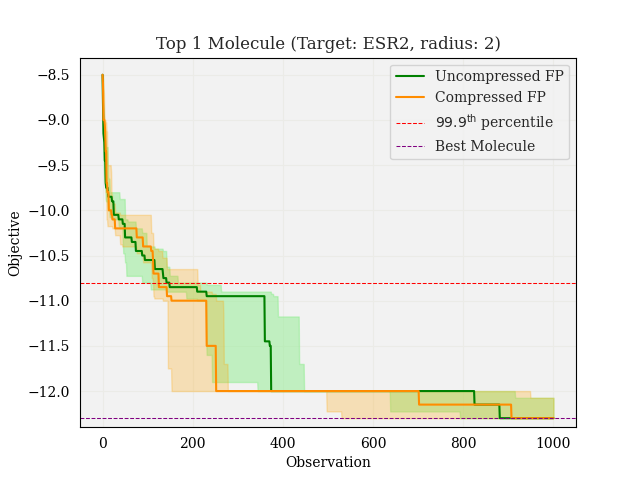
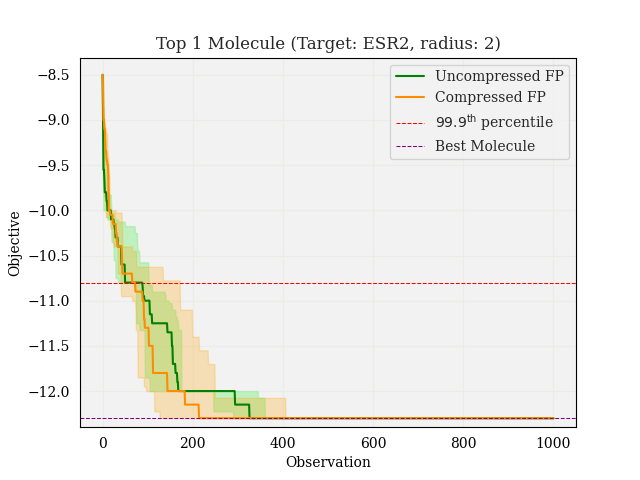
Update progress.md

Changed region(s): [[0.1562, 0.25, 0.875, 0.875]]

diff --git a/code/utils/misc.py b/code/utils/misc.py
@@ -86,16 +86,17 @@ def init_gp(smiles_train, y_train, amp=1.0, noise=1e-2, sparse=True, radius=2, c
 
     fp_func = config_fp_func(sparse=sparse, radius=radius, count=count, fpSize=fpSize)
 
-    gp = tanimoto_gp.ZeroMeanTanimotoGP(fp_func, smiles_train, y_train)
+    gp = tanimoto_gp.ConstantMeanTanimotoGP(fp_func, smiles_train, y_train)
 
-    gp_params = tanimoto_gp.TanimotoGP_Params(raw_amplitude=jnp.asarray(amp), raw_noise=jnp.asarray(noise))
+    train_mean = jnp.mean(y_train)
+    gp_params = tanimoto_gp.TanimotoGP_Params(raw_amplitude=jnp.asarray(amp), raw_noise=jnp.asarray(noise), mean=train_mean)
     gp_params = optimize_params(gp, gp_params, tol=1e-3, max_iters=10000)
 
     return gp, gp_params
 
 
 
-def config_fp_func(fp_type='ecfp', sparse=True, radius=2, count=True, fpSize=1024):
+def config_fp_func(fp_type='ecfp', sparse=True, radius=2, count=True, fpSize=2048):
 
     fp_func = partial(smiles_to_fp, fp_type=fp_type, sparse=sparse, radius=radius, count=count, fpSize=fpSize)
 

diff --git a/code/plot-bo-results.py b/code/plot-bo-results.py
@@ -37,7 +37,7 @@ def plot_hist(y, p99, p999, target):
 
 
 
-def main(target, n_init, budget, sparse, radius, make_hist):
+def main(target, n_init, budget, radius, make_hist):
 
     # Load dataset
     smiles_train, smiles_test, y_train, y_test = get_data.get_dockstring_dataset(target=target)
@@ -168,7 +168,6 @@ if __name__ == "__main__":
     parser.add_argument("--target", type=str, default='PARP1')
     parser.add_argument("--n_init", type=int, default=1000)
     parser.add_argument("--budget", type=int, default=1000)
-    parser.add_argument("--sparse", action="store_true")
     parser.add_argument("--radius", type=int, default=2)
     parser.add_argument("--make_hist", action="store_true")
  
@@ -177,6 +176,5 @@ if __name__ == "__main__":
     main(n_init=args.n_init,
          budget=args.budget,
          target=args.target,
-         sparse=args.sparse,
          radius=args.radius,
          make_hist=args.make_hist)

diff --git a/code/dockstring-bo.py b/code/dockstring-bo.py
@@ -96,7 +96,7 @@ def main(n_init, budget, target, sparse, radius):
     with open(results_path, 'wb') as f:
         pickle.dump(data, f)
 
-    print(f"Save results to {results_path}")
+    print(f"Saved results to {results_path}")
 
 
 if __name__ == "__main__":

diff --git a/progress.md b/progress.md
@@ -1,14 +1,4 @@
-Meeting notes (3/13):
-
-* in `predict_f()` are the parameters used for prediction the same that are used to compute the Cholesky factor?
-  --> Same for `predict_y()`
-* predictive GP class with fixed parameters
-* Subtract off dataset means for `ZeroMeanTanimotoGP`
-* Constant mean
-* Refactor for BO project, caching
-* Re-run BO experiments with subtracted mean
-
-* **Q:** Do we want to continuously update the mean function for `ConstantMeanTanimotoGP` as we observe new data in BO?
+* Do we want to continuously update the mean function for `ConstantMeanTanimotoGP` as we observe new data in BO?
 
 # March
 
@@ -31,11 +21,11 @@ Meeting notes (3/13):
 #### BO experiments
 - [x] Run all BO experiments for 1000 initial molecules and budget w/ GP regression params on bottom 80%
   - [x] `PARP1`
-  - [ ] `F2`
+  - [x] `F2`
   - [x] `ESR2`
 - [x] After making code faster and fixing SLURM resource usage, run more trials w/ larger initalizations / budgets
 
-- [ ] Re-run BO experiments with `ConstantMeanTanimotoGP` class
+- [ ] Re-run BO experiments with `FixedTanimotoGP` class
 
 # Feb
 

diff --git a/experiments.md b/experiments.md
@@ -42,8 +42,18 @@ Dataset is training dataset from Dockstring (10k molecules). Initial observation
 </p>
 
 <p align="center">
+<img src="figures/dockstring-bo/F2/1000-1000/r2-best.png" alt="" width="40%"/>
+<img src="figures/dockstring-bo/F2/1000-1000/r2-top10.png" alt="" width="40%"/>
+</p>
+
+<p align="center">
 <img src="figures/dockstring-bo/ESR2/1000-1000/r2-best.png" alt="" width="40%"/>
 <img src="figures/dockstring-bo/ESR2/1000-1000/r2-top10.png" alt="" width="40%"/>
+</p>
+
+<p align="center">
+<img src="figures/dockstring-bo/PGR/1000-1000/r2-best.png" alt="" width="40%"/>
+<img src="figures/dockstring-bo/PGR/1000-1000/r2-top10.png" alt="" width="40%"/>
 </p>
 
 
